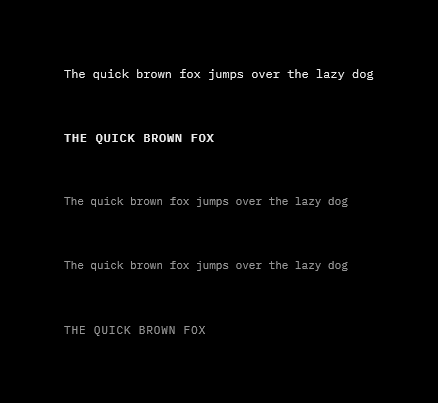
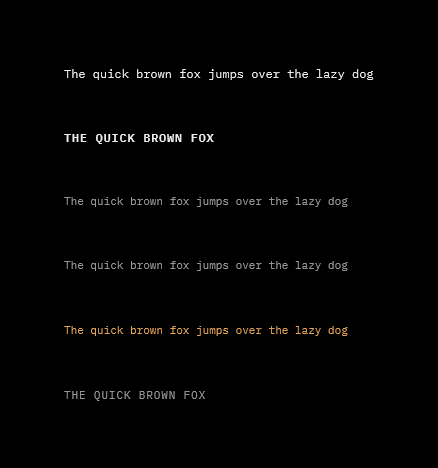
feat(widgets): add the tick box, tick row and tick list cards
The three cards follow the Apply boards, as the Design System has no preview of them yet. The text card gains the small look in the failure tone, the look of a status sentence under a control.

diff --git a/demos/widgets/src/cards/tick_list.rs b/demos/widgets/src/cards/tick_list.rs
@@ -1,0 +1,87 @@
+//! The Tick list card: the line at rest and disabled, then the list open above its line (one place, two places, the
+//! maintainer's four in two groups) and open under it. The Design System has no preview of it yet: this card follows
+//! the Apply boards (2, 5 and 9), with their example places. An open list is opened by a press on its line, so its
+//! first row has the focus, as it does when the list opens.
+
+use std::cell::Cell as Memo;
+
+use mere_layout::{Dim, Justify, Style};
+use mere_ui::{Id, Theme, TickListOpts, TickRow, Ui};
+
+use super::select::{Probe, centre, click};
+use super::{Block, Card, Cell, State, render};
+
+/// The settings panel's width on the boards.
+const COL: f32 = 319.0;
+
+/// One place: its row, whether it is ticked, and whether a rule goes above it.
+type Place = (TickRow<'static>, bool, bool);
+
+const PRISM: TickRow = TickRow { name: "Exploration, your game", how: "Prism Launcher", path: r"%APPDATA%\PrismLauncher\instances\Exploration", disabled: false };
+const VANILLA: TickRow = TickRow { name: "Exploration, your game", how: "Minecraft Launcher", path: r"%APPDATA%\.minecraft-exploration", disabled: false };
+const ATELIER: TickRow = TickRow { name: "Atelier, your game", how: "Prism Launcher", path: r"%APPDATA%\PrismLauncher\instances\Atelier", disabled: false };
+const SERVER: TickRow = TickRow { name: "Test server, shared with everyone who joins", how: "Dedicated server", path: r"C:\Games\server", disabled: false };
+const SOURCE: TickRow = TickRow { name: "Pack source folder, for its next version", how: "Repository", path: r"C:\Code\minecraft-pack", disabled: false };
+
+/// A tick list in a box `COL` wide and `h` tall, its line at the bottom when the list opens up, at the top when it
+/// opens down. `open` presses the line once.
+fn list(line: &'static str, places: &'static [Place], opts: TickListOpts, open: bool, h: f32) -> Cell {
+    let probe = Probe::new();
+    let shown = Memo::new(false);
+    let line_id: Memo<Option<Id>> = Memo::new(None);
+    Cell::new(State::Rest, move |ui: &mut Ui, _| {
+        // A fresh `Ui` (the harness builds a cell in several) starts closed.
+        if line_id.get().and_then(|id| ui.rect(id)).is_none() {
+            shown.set(false);
+        }
+        if let Some(r) = if open { probe.due(ui) } else { None } {
+            click(ui, centre(r));
+        }
+        let style = Style { column: true, w: Dim::Pct(100.0), h: Dim::Px(h), justify: if opts.up { Justify::End } else { Justify::Start }, ..Style::default() };
+        let mut id = None;
+        ui.node("box", style, |ui| {
+            let mut o = shown.get();
+            let r = ui.tick_list("place", line, &mut o, opts, |ui| {
+                for (i, (row, ticked, rule)) in places.iter().enumerate() {
+                    if *rule {
+                        ui.tick_rule();
+                    }
+                    let mut t = *ticked;
+                    ui.tick_row(&format!("p{i}"), *row, &mut t);
+                }
+                if !places.is_empty() {
+                    ui.tick_rule();
+                }
+                ui.tick_action("choose", "Choose a folder\u{2026}");
+            });
+            shown.set(o);
+            id = Some(r.line.id);
+        });
+        let id = id.unwrap();
+        probe.set(id);
+        line_id.set(Some(id));
+        id
+    })
+}
+
+pub fn blocks() -> Vec<Block> {
+    const ONE: &[Place] = &[(VANILLA, true, false)];
+    const TWO: &[Place] = &[(PRISM, false, false), (VANILLA, true, false)];
+    const FOUR: &[Place] = &[(PRISM, true, false), (ATELIER, false, false), (SERVER, false, true), (SOURCE, false, false)];
+    let up = TickListOpts { up: true, ..TickListOpts::default() };
+    let off = TickListOpts { disabled: true, ..up };
+    vec![
+        Block::matrix(vec![vec![list("To: Exploration", ONE, up, false, 24.0), list("To: choose a folder", &[], off, false, 24.0)]]).col_width(COL),
+        Block::matrix(vec![vec![
+            list("To: Exploration", ONE, up, true, 120.0),
+            list("To: Exploration (Minecraft Launcher)", TWO, up, true, 170.0),
+            list("To: Exploration", FOUR, up, true, 260.0),
+        ]])
+        .col_width(COL),
+        Block::matrix(vec![vec![list("To: Exploration (Minecraft Launcher)", TWO, TickListOpts::default(), true, 170.0)]]).col_width(COL),
+    ]
+}
+
+pub fn card(theme: Theme) -> Card {
+    render(theme, blocks())
+}

diff --git a/demos/widgets/src/cards/tick_row.rs b/demos/widgets/src/cards/tick_row.rs
@@ -1,0 +1,60 @@
+//! The Tick row card: one line and two lines, not ticked and ticked, under the pointer, focused and disabled, and a
+//! long name cut at its end over a long folder cut at its start. The Design System has no preview of it yet: this
+//! card follows the rows of the Apply boards.
+
+use mere_layout::{Dim, Style};
+use mere_ui::{Theme, TickRow, Ui};
+
+use super::select::{Probe, centre, click};
+use super::{Block, Card, Cell, State, render};
+
+/// The settings panel's width on the boards.
+const COL: f32 = 319.0;
+
+const NAME: &str = "Exploration, your game";
+const HOW: &str = "Prism Launcher";
+const PATH: &str = r"%APPDATA%\PrismLauncher\instances\Exploration";
+
+/// A row in a box `COL` wide. `focus` presses it once, so that it takes the focus; the value shown is `ticked`
+/// whatever that press did, each build starting from it.
+fn row(state: State, row: TickRow<'static>, ticked: bool, focus: bool) -> Cell {
+    let probe = Probe::new();
+    Cell::new(state, move |ui: &mut Ui, _| {
+        if let Some(r) = if focus { probe.due(ui) } else { None } {
+            click(ui, centre(r));
+        }
+        let mut v = ticked;
+        let mut id = None;
+        // A column, so that the row takes the box's whole width as it does in a list.
+        ui.node("col", Style { column: true, w: Dim::Pct(100.0), ..Style::default() }, |ui| id = Some(ui.tick_row("r", row, &mut v).id));
+        let id = id.unwrap();
+        probe.set(id);
+        id
+    })
+}
+
+pub fn blocks() -> Vec<Block> {
+    let one = TickRow { name: "Atelier, your game", ..TickRow::default() };
+    let two = TickRow { name: NAME, how: HOW, path: PATH, disabled: false };
+    let off = TickRow { disabled: true, ..two };
+    let long = TickRow {
+        name: "Exploration with the long winter settings, your game",
+        how: "Minecraft Launcher",
+        path: r"C:\Users\someone\AppData\Roaming\.minecraft-exploration",
+        disabled: false,
+    };
+    vec![
+        Block::matrix(vec![
+            vec![row(State::Rest, one, false, false), row(State::Rest, one, true, false)],
+            vec![row(State::Rest, two, false, false), row(State::Rest, two, true, false)],
+            vec![row(State::Hover, two, false, false), row(State::Rest, two, false, true)],
+            vec![row(State::Rest, off, false, false), row(State::Rest, off, true, false)],
+            vec![row(State::Rest, long, true, false), row(State::Rest, long, false, true)],
+        ])
+        .col_width(COL),
+    ]
+}
+
+pub fn card(theme: Theme) -> Card {
+    render(theme, blocks())
+}

diff --git a/demos/widgets/src/cards/tick_box.rs b/demos/widgets/src/cards/tick_box.rs
@@ -1,0 +1,27 @@
+//! The Tick box card: the square box with its label, not ticked and ticked, in rest, hover, held and disabled. The
+//! Design System has no preview of it yet: this card follows the Apply boards' box (12 px, a 1 px frame, the check
+//! in the text colour).
+
+use mere_ui::{Theme, TickOpts, Ui};
+
+use super::{Block, Card, Cell, State, render};
+
+fn row(ticked: bool) -> Vec<Cell> {
+    [(State::Rest, false), (State::Hover, false), (State::Held, false), (State::Rest, true)]
+        .into_iter()
+        .map(|(state, disabled)| {
+            Cell::new(state, move |ui: &mut Ui, _| {
+                let mut v = ticked;
+                ui.tick_box("t", "Option", &mut v, TickOpts { disabled }).id
+            })
+        })
+        .collect()
+}
+
+pub fn blocks() -> Vec<Block> {
+    vec![Block::matrix(vec![row(false), row(true)])]
+}
+
+pub fn card(theme: Theme) -> Card {
+    render(theme, blocks())
+}

diff --git a/demos/widgets/src/cards/text.rs b/demos/widgets/src/cards/text.rs
@@ -1,4 +1,5 @@
-//! The Text card: one line per look, in the look's own tone (components/Text/preview.html).
+//! The Text card: one line per look, in the look's own tone (components/Text/preview.html), and the small look in the
+//! failure tone, which a status sentence under a control takes (`ui.paragraph(s, TextLook::small(Tone::Warn))`).
 
 use mere_layout::Style;
 use mere_ui::{TextLook, Theme, Tone, Ui};
@@ -18,6 +19,7 @@ pub fn blocks() -> Vec<Block> {
         line(CAPS, TextLook::heading()),
         line(SENTENCE, TextLook::status(Tone::Muted)),
         line(SENTENCE, TextLook::small(Tone::Muted)),
+        line(SENTENCE, TextLook::small(Tone::Warn)),
         line(CAPS, TextLook::label()),
     ])]
 }

diff --git a/demos/widgets/src/cards/mod.rs b/demos/widgets/src/cards/mod.rs
@@ -45,6 +45,9 @@ pub mod tab_menu;
 pub mod tabs;
 pub mod text;
 pub mod text_field;
+pub mod tick_box;
+pub mod tick_list;
+pub mod tick_row;
 pub mod toggle;
 pub mod tool_button;
 pub mod tooltip;
@@ -225,6 +228,9 @@ pub const CARDS: &[(&str, fn(Theme) -> Card)] = &[
     ("tabs", tabs::card),
     ("text", text::card),
     ("text-field", text_field::card),
+    ("tick-box", tick_box::card),
+    ("tick-list", tick_list::card),
+    ("tick-row", tick_row::card),
     ("toggle", toggle::card),
     ("tool-button", tool_button::card),
     ("tooltip", tooltip::card),
